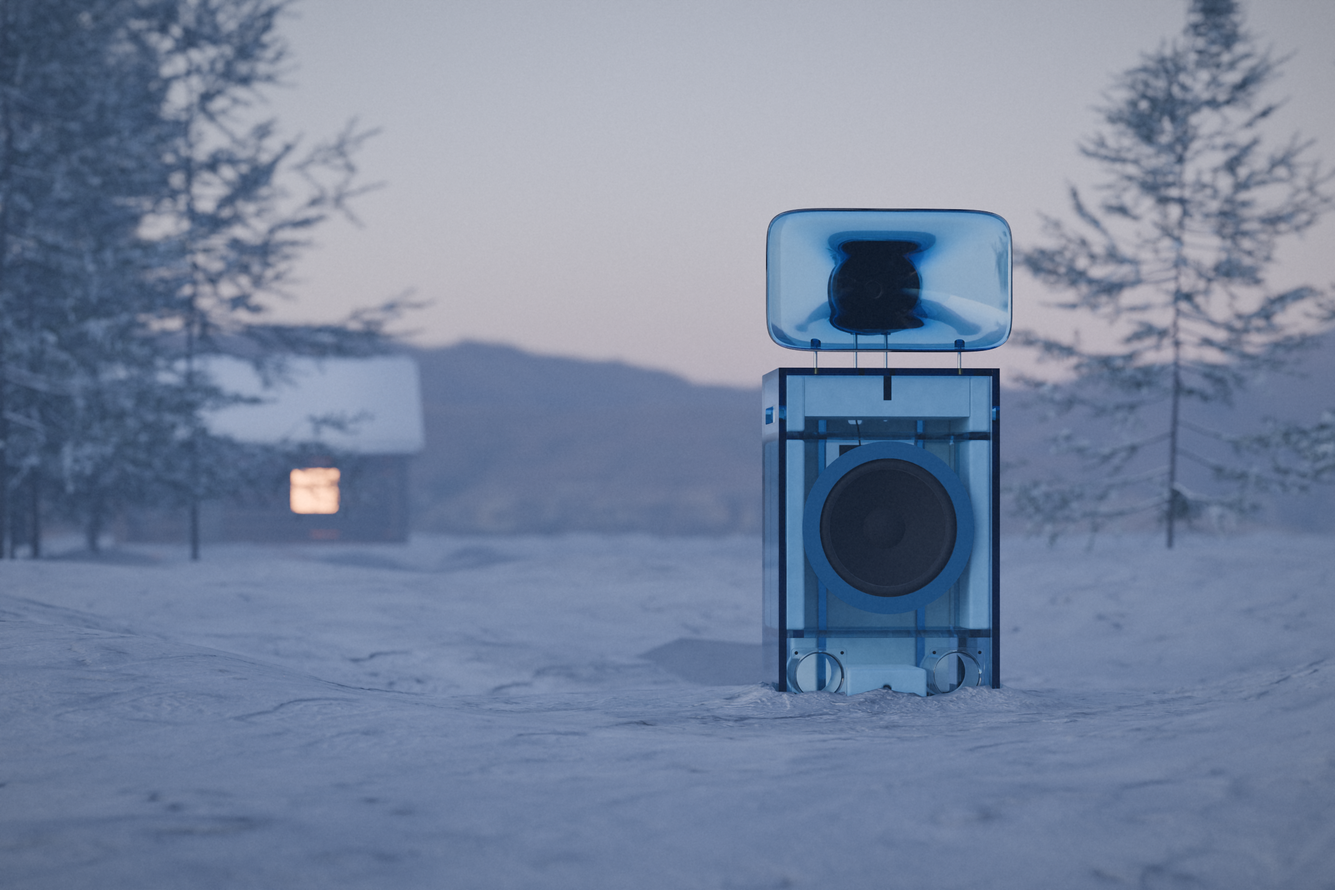
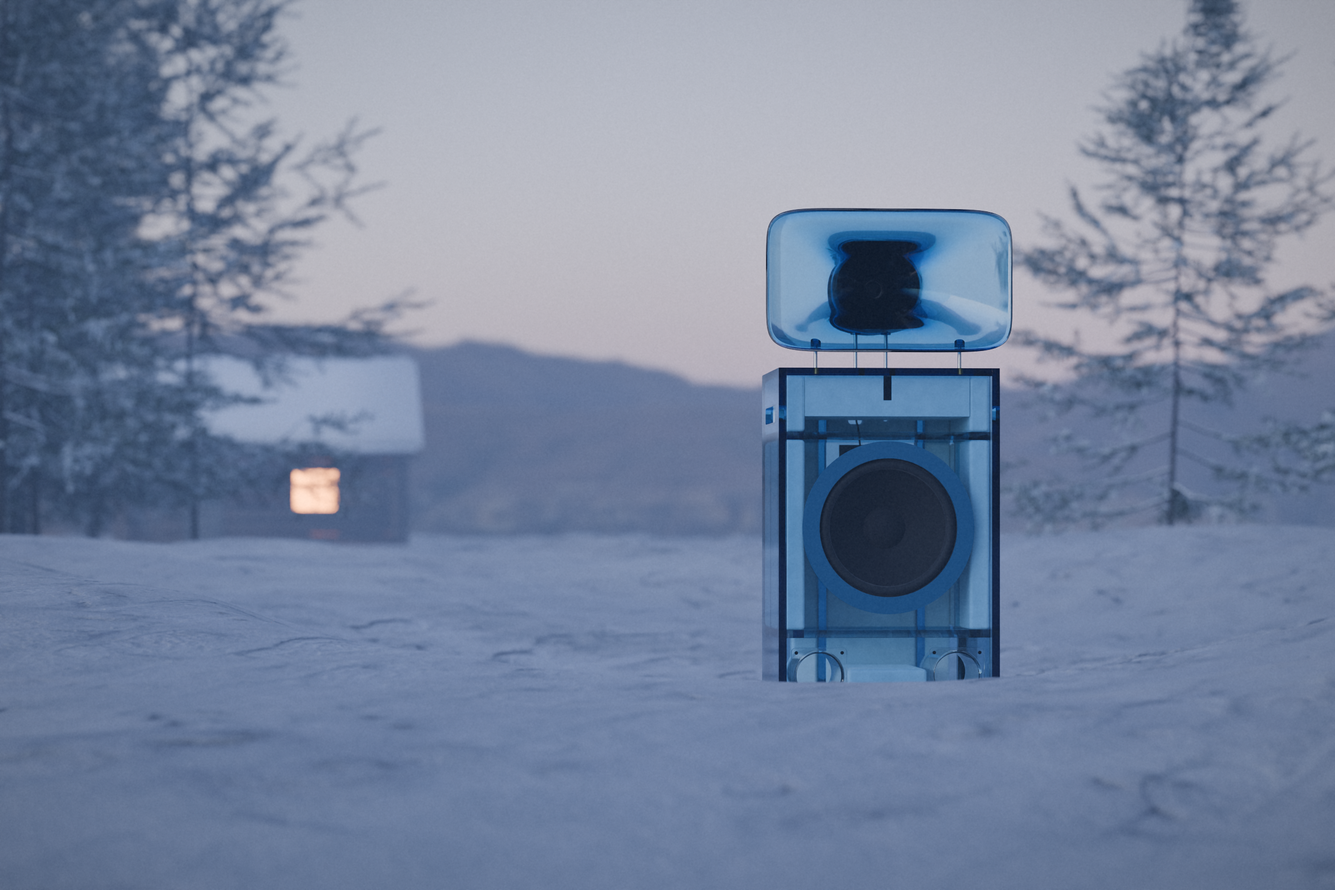
barkhorn element: Ice, the landscape final again, the dark patch beside the base gone (512 samples, 103 min)
Claude-Session: https://claude.ai/code/session_01U6oTWfXB6JhKA5YpELJMMk

diff --git a/spinoffs/barkhorn/elements/ice.md b/spinoffs/barkhorn/elements/ice.md
@@ -77,7 +77,7 @@ Seven is the best score among the element sessions so far, but it is not a $20,0
    - Two things cause this. The lining and the black woofer fill the cabinet, so little light passes through. And under a soft blue-hour sky there is no strong source behind the speaker to light it from within.
    - Brighter cards made it milky (p8 lost its duel for that), and the night made it darker. The real fix is a stronger, motivated backlight: the sun's last glow straight behind it, which the critics liked in p2 and p5. That fights the blue-hour idea, so it is a choice for the owner.
 2. **The snow reads as matte plaster.** Its scans are good at 1 m but soft at 8 m. The glitter does not show at f/2.8. Its 3 cm displacement crumples into foam at the base.
-3. **A rectangular dark patch on the snow beside the base.**
+3. **~~A rectangular dark patch on the snow beside the base~~ (fixed, 00c3cbd).** Crops with each piece taken out found it: the snowfield's level footprint under the speaker sat in a hollow of the broad relief. The relief is now measured from the terrain's own height there, so the footprint is flush. Landscape re-rendered at 512 (103 min). Before the fix:
    - It is most likely the snowfield's level, undrifted square under the cabinet (`snowfield`'s bank leaves the footprint flat) showing at its rotated corner, or a card's shadow.
    - Not yet fixed. It is the cheapest thing to fix next.
 4. **The cabin.** Its window clips and its roof snow is a slab. At 72 m in haze it is soft enough, but the critics read both as CG.
